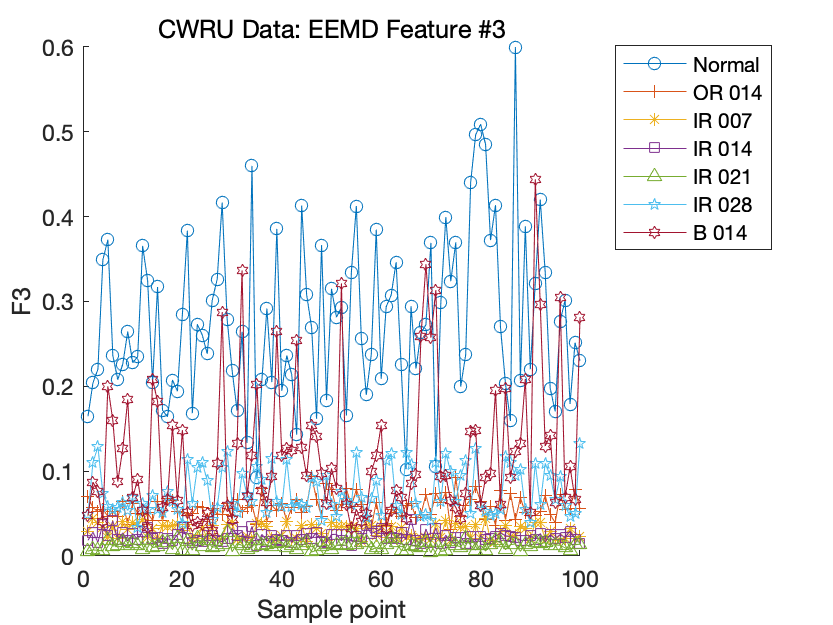
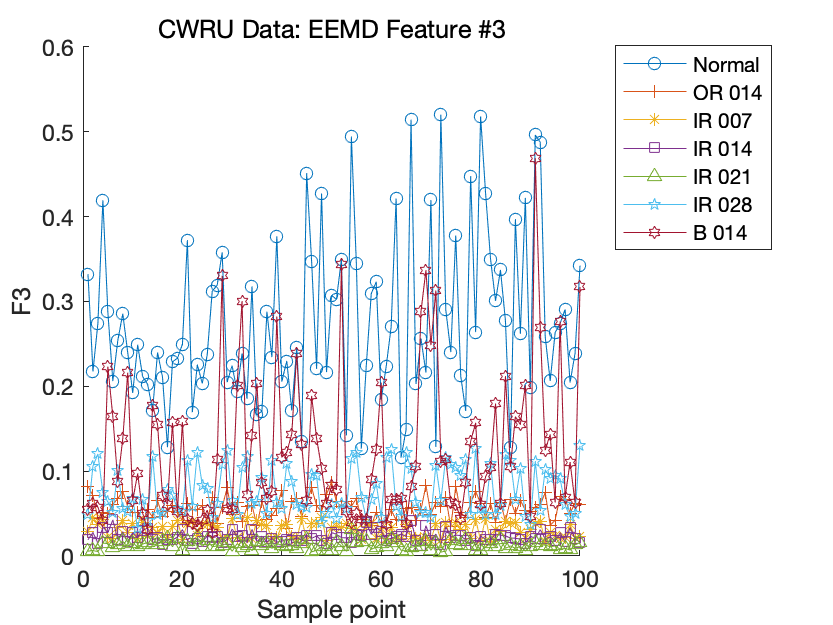
Visualise the EEMD features of the CWRU data set

Changed region(s): [[0.0936, 0.0608, 0.7179, 0.912], [0.4682, 0.1824, 0.5306, 0.2128], [0.2809, 0.2432, 0.3121, 0.2736]]

diff --git a/src/visualization/CWRU_EEMD_features.m b/src/visualization/CWRU_EEMD_features.m
@@ -1,6 +1,6 @@
 clear;
 M_ens = 10;
-I_imf = 5;
+I_imf = 4;
 
 % combine EEMD features for normal
 load('data/interim/CWRU/a1_normal.mat');
